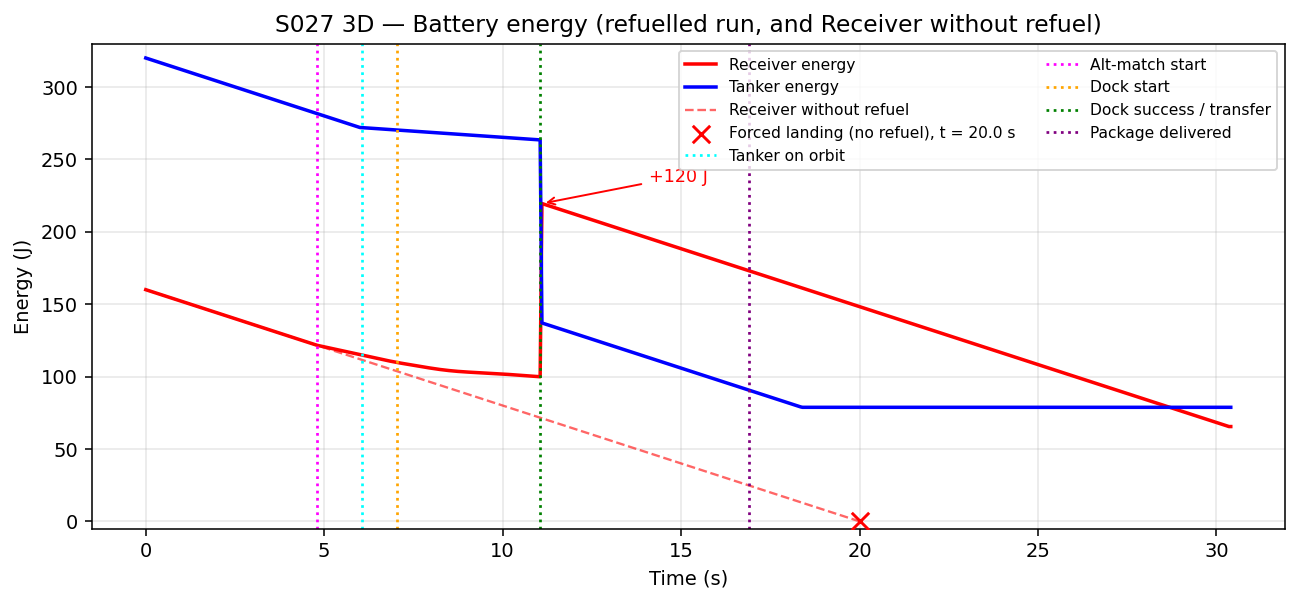
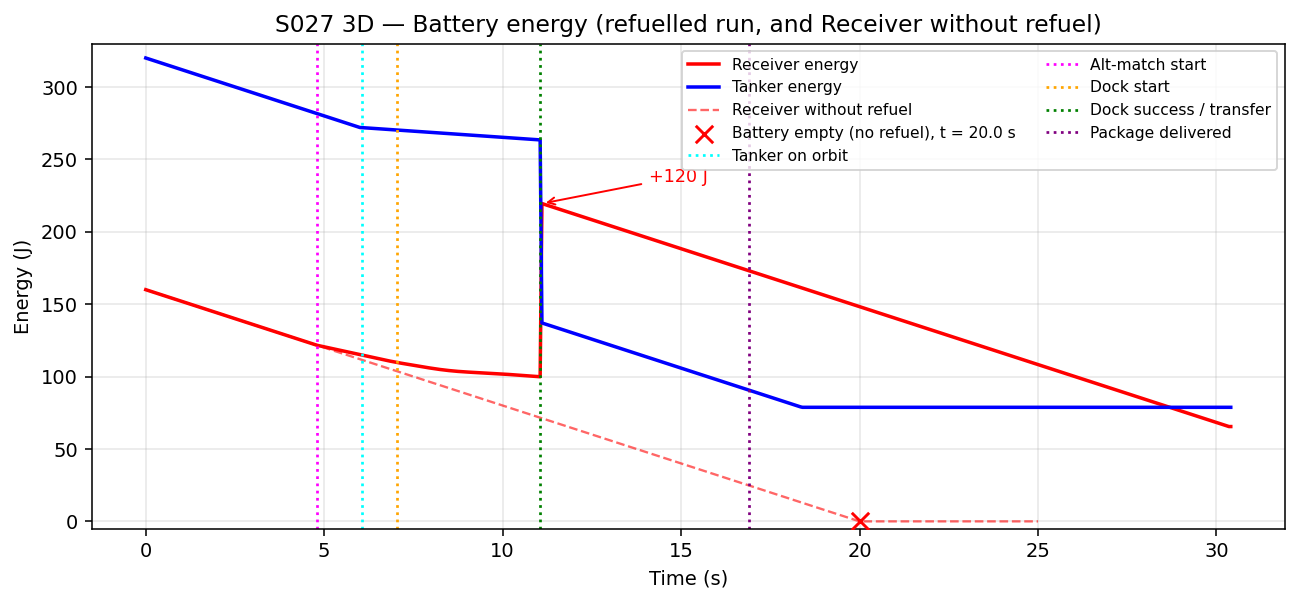
Fix S027 3D Aerial Refueling Relay: address review follow-ups
- [LOW] An empty battery no longer freezes the drone in mid-air: it stops
  drawing energy and descends straight down at 2 m/s to the ground. No-refuel
  run: battery empty at 20.00 s at z = 9.85 m, forced landing at 24.95 s.
  Plots mark both points; README results, parameters and deviations updated.

Changed region(s): [[0.5235, 0.0897, 0.7698, 0.2691]]

diff --git a/src/02_logistics_delivery/3d/s027_3d_aerial_refueling.py b/src/02_logistics_delivery/3d/s027_3d_aerial_refueling.py
@@ -50,6 +50,7 @@ Z_T_LOITER  = 15.0      # m    tanker loiter altitude
 
 K_ALT       = 1.2       # 1/s  altitude-match gain
 V_Z_MAX     = 2.0       # m/s  max vertical speed in altitude match
+V_EMERG     = 2.0       # m/s  emergency descent speed after the battery is empty
 DELTA_Z_OK  = 1.0       # m    altitude-match tolerance (card delta_z)
 V_H_ALT     = 3.5       # m/s  horizontal speed during altitude match (0.7 V)
 
@@ -199,6 +200,11 @@ def simulate(refuel=True, soft_dock_ff=True):
             else:
                 vT, fsm_T = np.zeros(3), 'home'
                 ev['tanker_home'] = t
+        elif fsm_T == 'descending':
+            vT, aT = np.array([0.0, 0.0, -min(V_EMERG, pT[2] / DT)]), np.zeros(3)
+            if pT[2] <= 1e-9:
+                vT, fsm_T = np.zeros(3), 'landed'
+                ev['forced_landing_T'] = (t, pT.copy())
         elif fsm_T == 'landed':
             vT, aT = np.zeros(3), np.zeros(3)
 
@@ -243,6 +249,11 @@ def simulate(refuel=True, soft_dock_ff=True):
             else:
                 acc = -KP2 * dr - KD2 * dv + (aT if soft_dock_ff else 0.0)
             vR = clamp_speed(vR + acc * DT)
+        if fsm_R == 'descending':
+            vR = np.array([0.0, 0.0, -min(V_EMERG, pR[2] / DT)])
+            if pR[2] <= 1e-9:
+                vR, fsm_R = np.zeros(3), 'landed'
+                ev['forced_landing_R'] = (t, pR.copy())
         if fsm_R in ('home', 'landed'):
             vR = np.zeros(3)
 
@@ -256,19 +267,20 @@ def simulate(refuel=True, soft_dock_ff=True):
             pT = pT + vT * DT
         max_step_T = max(max_step_T, float(np.linalg.norm(pT - pT_old)))
 
-        # ---- battery: an empty battery is a forced landing --------------------
-        if fsm_R not in ('home', 'landed'):
+        # ---- battery: an empty battery forces an emergency descent -------------
+        # (kinematic straight-down descent at V_EMERG; no energy is drawn)
+        if fsm_R not in ('home', 'landed', 'descending'):
             ER -= battery_drain(np.linalg.norm(vR), DT)
             if ER <= 0.0:
                 ER = 0.0
-                fsm_R = 'landed'
-                ev['forced_landing_R'] = (t + DT, pR.copy())
-        if fsm_T not in ('at_base', 'home', 'landed'):
+                fsm_R = 'descending'
+                ev['battery_empty_R'] = (t + DT, pR.copy())
+        if fsm_T not in ('at_base', 'home', 'landed', 'descending'):
             ET -= battery_drain(np.linalg.norm(vT), DT)
             if ET <= 0.0:
                 ET = 0.0
-                fsm_T = 'landed'
-                ev['forced_landing_T'] = (t + DT, pT.copy())
+                fsm_T = 'descending'
+                ev['battery_empty_T'] = (t + DT, pT.copy())
 
     cols = list(zip(*log))
     h = {
@@ -323,9 +335,9 @@ def run_simulation():
                      ('receiver_home', 'Receiver home'), ('complete', 'Mission complete')]:
         if key in ev:
             print(f'  {lab:<20s}: t = {ev[key]:.2f} s')
-    for key, lab in [('forced_landing_R', 'Receiver'), ('forced_landing_T', 'Tanker')]:
+    for key, lab in [('battery_empty_R', 'Receiver'), ('battery_empty_T', 'Tanker')]:
         if key in ev:
-            print(f'  {lab} FORCED LANDING at t = {ev[key][0]:.2f} s, pos {np.round(ev[key][1], 2)}')
+            print(f'  {lab} BATTERY EMPTY at t = {ev[key][0]:.2f} s, pos {np.round(ev[key][1], 2)}')
     print(f'  Final energy        : Receiver {data["E_R"][-1]:.2f} J, Tanker {data["E_T"][-1]:.2f} J')
     print(f'  Receiver path flown : {data["path_len_R"]:.2f} m')
     print(f'  Max tanker step     : {data["max_step_T"]:.3f} m per {DT} s '
@@ -340,11 +352,14 @@ def run_simulation():
     base = simulate(refuel=False)
     bev = base['events']
     print('\nNo-refuel run:')
-    if 'forced_landing_R' in bev:
+    if 'battery_empty_R' in bev:
+        tb, pb = bev['battery_empty_R']
         tl, pl = bev['forced_landing_R']
-        print(f'  Receiver FORCED LANDING at t = {tl:.2f} s, pos ({pl[0]:.2f}, {pl[1]:.2f}, {pl[2]:.2f}) m, '
-              f'after {base["path_len_R"]:.2f} m of {ROUTE_LEN:.2f} m'
+        print(f'  Receiver BATTERY EMPTY at t = {tb:.2f} s, pos ({pb[0]:.2f}, {pb[1]:.2f}, {pb[2]:.2f}) m, '
+              f'after {base["path_len_R"] - pb[2]:.2f} m of {ROUTE_LEN:.2f} m'
               f'{"; package delivered" if "delivered" in bev else "; package NOT delivered"}')
+        print(f'  Emergency descent at {V_EMERG} m/s: FORCED LANDING at t = {tl:.2f} s, '
+              f'pos ({pl[0]:.2f}, {pl[1]:.2f}, {pl[2]:.2f}) m')
     else:
         print('  Receiver completed without refuel')
     data['no_refuel'] = base
@@ -359,7 +374,7 @@ def run_simulation():
         dk = np.nonzero(chk['phase_R'] == 'docking')[0]
         rel = np.linalg.norm(chk['pos_R'][dk] - chk['pos_T'][dk], axis=1)
         tail = rel[-int(round(20.0 / DT)):]
-        fl = cev.get('forced_landing_R')
+        fl = cev.get('battery_empty_R')
         print(f'  never docks: docking from t = {cev["dock_start"]:.2f} s until '
               f'{"the battery is empty at t = %.2f s" % fl[0] if fl else "T_MAX"}')
         print(f'  |dr| over the last 20 s of docking: {tail.min():.3f}-{tail.max():.3f} m '
@@ -405,6 +420,8 @@ def plot_trajectory_3d(data, out_dir):
     ax.plot(*nr['pos_R'].T, color='red', lw=1.0, ls='--', alpha=0.5,
             label='Receiver without refuel')
     if 'forced_landing_R' in nr['events']:
+        ax.scatter(*nr['events']['battery_empty_R'][1], color='red', marker='o', s=40,
+                   label='Battery empty (no refuel)')
         ax.scatter(*nr['events']['forced_landing_R'][1], color='red', marker='x', s=90,
                    label='Forced landing (no refuel)')
     if 'dock' in ev:
@@ -453,10 +470,10 @@ def plot_energy_levels(data, out_dir):
     ax.plot(times, data['E_T'], color='blue', lw=1.8, label='Tanker energy')
     ax.plot(nr['times'], nr['E_R'], color='red', lw=1.2, ls='--', alpha=0.6,
             label='Receiver without refuel')
-    if 'forced_landing_R' in nr['events']:
-        tl = nr['events']['forced_landing_R'][0]
+    if 'battery_empty_R' in nr['events']:
+        tl = nr['events']['battery_empty_R'][0]
         ax.scatter([tl], [0.0], color='red', marker='x', s=80, zorder=5,
-                   label=f'Forced landing (no refuel), t = {tl:.1f} s')
+                   label=f'Battery empty (no refuel), t = {tl:.1f} s')
     _mark_events(ax, ev)
     if 'dock' in ev:
         k = ev['dock'][3]

diff --git a/outputs/02_logistics_delivery/3d/s027_3d_aerial_refueling/README.md b/outputs/02_logistics_delivery/3d/s027_3d_aerial_refueling/README.md
@@ -13,7 +13,7 @@ A delivery drone (Receiver, red) flies a 3D waypoint mission: climb-out to a 10 
 3. It soft-docks in all three axes, receives energy and resumes its waypoint mission.
 4. The Tanker returns to base.
 
-A second run without refuelling shows the forced landing that the trigger predicts. An empty battery stops a drone (forced landing).
+A second run without refuelling shows the forced landing that the trigger predicts. When a drone's battery is empty it stops drawing energy and makes an emergency descent straight down at 2 m/s to the ground (forced landing).
 
 ---
 
@@ -62,6 +62,7 @@ The dock succeeds when $\|\Delta\mathbf{r}\| < \epsilon_p$ and $\|\Delta\mathbf{
 | $d_{dock}$ / $\epsilon_p$ / $\epsilon_v$ | 0.5 m / 0.20 m / 0.08 m/s |
 | Approach gains $(K_p, K_d)$ / soft-dock gains $(K_{p2}, K_{d2})$ | (2.0, 1.5) / (4.0, 2.5) |
 | Waypoint arrival radius | 0.5 m |
+| Emergency descent speed (empty battery) | 2.0 m/s |
 
 ### Deviations from the scenario card
 
@@ -72,6 +73,7 @@ The dock succeeds when $\|\Delta\mathbf{r}\| < \epsilon_p$ and $\|\Delta\mathbf{
 | Refuel trigger timing | "requests refueling when predicted range falls below threshold" during the mission | fires at t = 0 | with these energies the full route is out of range from the start (100 m < 141.5 m incl. margin), so the trigger launches the Tanker at take-off, as the card's "launches simultaneously" setup implies |
 | Tanker start | same base | pad at (0, 2, 0) m | 2 m beside the Receiver so the two tracks stay distinguishable |
 | Receiver speed during docking | not specified | clipped to $V$ = 5 m/s | same limit as every other phase |
+| Empty battery | not specified | the drone stops drawing energy and descends straight down at 2 m/s (kinematic) to z = 0 | a simplification: a real multirotor with an empty battery would fall or rely on a reserve; this shows where it ends up instead of freezing it in mid-air |
 
 ---
 
@@ -95,14 +97,14 @@ Console output of `python src/02_logistics_delivery/3d/s027_3d_aerial_refueling.
 | Receiver home | t = 30.35 s, final energy 65.48 J, 139.31 m flown |
 | Min range margin after refuel ($d_{rem}$ − need, need includes 5 m) | 34.60 m |
 | Max Tanker step | 0.250 m per 0.05 s = V·Δt (no teleport) |
-| **Without refuelling** | forced landing at t = 20.00 s at (29.06, 0, 9.85) m after 100.00 m of 136.50 m (package delivered, on the way home) |
+| **Without refuelling** | battery empty at t = 20.00 s at (29.06, 0, 9.85) m after 100.00 m of 136.50 m (package delivered, on the way home); emergency descent at 2 m/s, forced landing at t = 24.95 s at (29.06, 0, 0) m |
 | **Without the a_T feed-forward** | never docks: the Receiver docks from 7.05 s until its battery is empty at 64.75 s, with a steady \|Δr\| of 0.268 m (> ε_p) |
 
 **Energy checks**
 
 - **Tanker at dock.** The pad-to-entry leg is √(26² + 2² + 15²) = 30.1 m, which costs 48.1 J at 1.6 J/m. Five seconds of orbiting at 2 m/s costs 5.0 s × 1.7 W = 8.5 J. That leaves 320 − 48.1 − 8.5 = 263.4 J ✓. After the transfer: 263.43 − 120 × 1.05 = 137.43 J ✓.
 - **Tanker home.** The return leg costs 137.43 − 78.77 = 58.66 J, which is 36.7 m at 1.6 J/m. At 5 m/s that takes 7.3 s, consistent with 11.05 → 18.40 s ✓.
-- **Receiver without refuelling.** 160 J / 1.6 J/m = 100 m. The outbound route to the delivery point is 75.3 m, so the drone lands about 25 m back along the return cruise, at x = 29 m ✓.
+- **Receiver without refuelling.** 160 J / 1.6 J/m = 100 m. The outbound route to the delivery point is 75.3 m, so the battery runs out about 25 m back along the return cruise, at x = 29 m ✓. The 9.85 m descent at 2 m/s takes 4.9 s, matching the landing at 24.95 s ✓.
 - **Refuelled Receiver.** It ends with 65.48 J, less than it started with, and its range margin never drops below 34.60 m.
 
 **Docking.** The receiver starts the altitude match 12 m before the RVZ, while still at its cruise altitude. It climbs at up to 2 m/s while closing horizontally, and switches to the docking law when it is within δ_z = 1 m of 15 m. The PD law with Tanker-acceleration feed-forward then removes the remaining 2.2 m offset and 3.4 m/s velocity difference in 4.0 s. The velocity tolerance (0.08 m/s) is the binding condition. In `docking_detail.png`, |Δr| is below ε_p about 1.5 s before |Δv| drops below ε_v at 11.05 s. By then |Δr| is 0.025 m.
@@ -115,7 +117,7 @@ Console output of `python src/02_logistics_delivery/3d/s027_3d_aerial_refueling.
 
 ### 3D Trajectory
 
-The Receiver is red and the Tanker blue; the gold segment is the docking approach. The dashed red line is the Receiver without refuelling, ending at its forced landing (×):
+The Receiver is red and the Tanker blue; the gold segment is the docking approach. The dashed red line is the Receiver without refuelling: its battery empties at the red dot, and it descends vertically to its forced landing (×):
 
 ![Trajectory](trajectory_3d.png)
 
